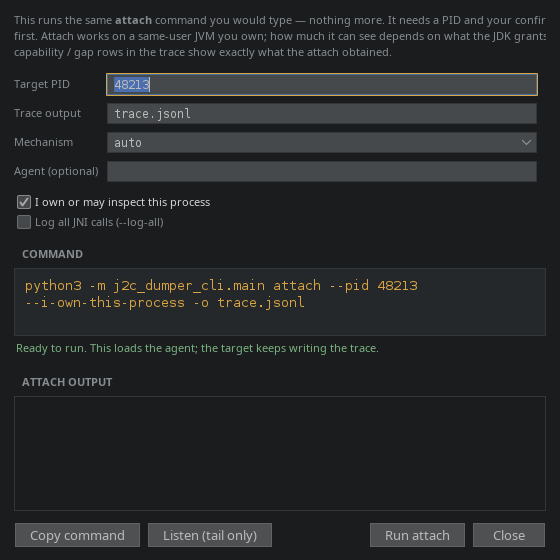
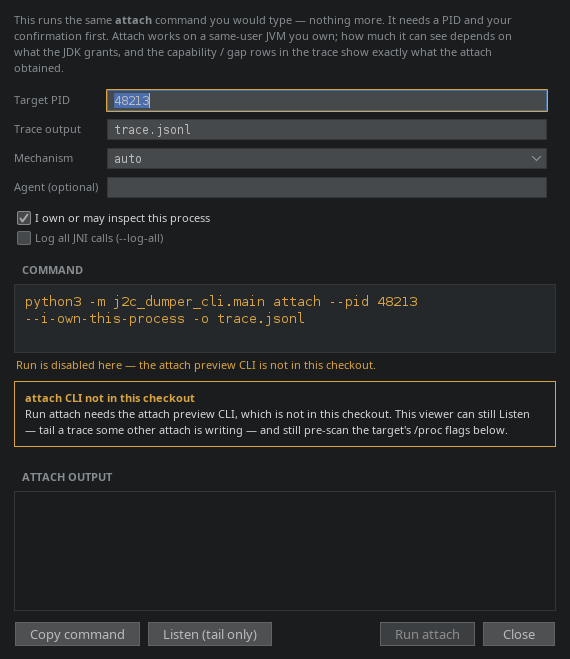
test(desktop-ui): reflow intro, re-export shots at real dialog size
- Reflow the attach-form intro and every banner through one shared wrap
  width kept inside the packed dialog's content column, so words stay
  complete (fixes the confirmation->confir clip in 07/10).
- Render the attach shots at the real packed dialog size (dialogShot),
  matching what ViewerFrame.openAttachDialog shows.
- 07 now shows the honest 'attach CLI not in this checkout' notice with
  Run disabled; 10 shows the refusal banner (notice superseded).
- Add 12-attach-self-warning proving the allowAttachSelf=false warning
  appears in the real UI via the pre-scan wiring.
- Grow the warning row dynamically so a two-line warning is not clipped.
- Update README + review doc for the CLI-availability notice, the warning
  path, and bindingGaps reading from manifest.json.

diff --git a/jvm/desktop-ui/src/test/kotlin/j2c/desktop/ShotExporter.kt b/jvm/desktop-ui/src/test/kotlin/j2c/desktop/ShotExporter.kt
@@ -53,12 +53,19 @@ fun main(args: Array<String>) {
         println("wrote $name.png")
     }
 
-    fun componentShot(name: String, w: Int, h: Int, build: () -> JComponent) {
+    /**
+     * Render a standalone component to a PNG, sizing the window to the panel's
+     * own preferred size — exactly what ViewerFrame.openAttachDialog does with
+     * pack(). This makes the attach-form shots match the real dialog a user
+     * sees, so the intro / banner wrapping in the image is the wrapping in the
+     * app.
+     */
+    fun dialogShot(name: String, build: () -> JComponent) {
         var frame: JFrame? = null
         SwingUtilities.invokeAndWait {
             val f = JFrame(name)
             f.contentPane = build()
-            f.setSize(w, h)
+            f.pack()
             f.isVisible = true
             frame = f
         }
@@ -68,7 +75,6 @@ fun main(args: Array<String>) {
             val content = f.contentPane
             val cw = content.width.coerceAtLeast(1)
             val ch = content.height.coerceAtLeast(1)
-            println("PROBE $name content=${cw}x$ch")
             val img = BufferedImage(cw, ch, BufferedImage.TYPE_INT_RGB)
             val g = img.createGraphics()
             content.printAll(g)
@@ -118,7 +124,7 @@ fun main(args: Array<String>) {
     // preview CLI is absent, so the form says so and keeps Run disabled — it
     // never pretends the displayed command would run. Listen and the pre-scan
     // still work.
-    componentShot("07-attach-form", 560, 620) {
+    dialogShot("07-attach-form") {
         AttachPanel(
             defaultOutput = "trace.jsonl",
             onStartTail = {},
@@ -153,7 +159,7 @@ fun main(args: Array<String>) {
     // -XX:+DisableAttachMechanism, so the form refuses before launch, names the
     // reason code, gives the one-line meaning, and points at the startup path.
     // No stealth, no bypass — reaching this banner means no attach happened.
-    componentShot("10-attach-refused", 560, 620) {
+    dialogShot("10-attach-refused") {
         AttachPanel(
             defaultOutput = "trace.jsonl",
             onStartTail = {},
@@ -177,7 +183,7 @@ fun main(args: Array<String>) {
     // -Djdk.attach.allowAttachSelf=false, which governs self-attach only and
     // does NOT block this same-user attach, so the form warns (amber) and does
     // not refuse. Same scan/classification the live refresh runs.
-    componentShot("12-attach-self-warning", 560, 620) {
+    dialogShot("12-attach-self-warning") {
         AttachPanel(
             defaultOutput = "trace.jsonl",
             onStartTail = {},

diff --git a/jvm/desktop-ui/src/main/kotlin/j2c/desktop/AttachPanel.kt b/jvm/desktop-ui/src/main/kotlin/j2c/desktop/AttachPanel.kt
@@ -345,7 +345,9 @@ class AttachPanel(
         stack.add(left(hintLabel))
         stack.add(bannerRow(noticeBanner))
         stack.add(bannerRow(refusalBanner))
-        stack.add(left(warningLabel))
+        // A growable row (not left(), which freezes the height to one line) so a
+        // two-line warning that appears after the dialog is sized shows in full.
+        stack.add(bannerRow(warningLabel))
         stack.add(left(Ui.sectionLabel("attach output")))
         stack.add(Ui.scroll(logArea).apply { preferredSize = Dimension(480, 120) })
         return stack
@@ -548,9 +550,12 @@ class AttachPanel(
     private companion object {
         /**
          * The wrap width (px) shared by the intro paragraph and every banner so
-         * they line up and, crucially, wrap with complete words inside the
-         * form's fixed content column instead of clipping the last word.
+         * they line up and, crucially, wrap with *complete* words. A Swing HTML
+         * label whose fixed div width sits too close to its allocated width
+         * reflows text wider than it paints and clips the last word; keeping the
+         * wrap comfortably inside the dialog's ~570px content column (packed, as
+         * openAttachDialog does) avoids that.
          */
-        const val WRAP_PX = 452
+        const val WRAP_PX = 400
     }
 }

diff --git a/jvm/desktop-ui/README.md b/jvm/desktop-ui/README.md
@@ -65,8 +65,11 @@ window.
   the container format (PE/ELF/MachO), target arch, the obfuscator profile and
   method-discovery strategy the introspection used (when recorded), the native
   registry / string counts, and any **binding gaps** — native methods the pass
-  could not bind to a call site — as a count plus a short list. Missing fields
-  are simply omitted, so older `binary.json` files still show format and arch.
+  could not bind to a call site — as a count plus a short list. Format, arch,
+  and the analysis facts come from `binary.json`; binding gaps are read from
+  `manifest.json` (where the merge step records them), falling back to
+  `binary.json`. Missing fields are simply omitted, so older reports still show
+  format and arch.
 - **Artifact JSON** — the raw recovered JSON for the selected method.
 - **Trace** — the trace events. A static `trace.jsonl` is loaded when the
   session has one; **Tail this trace** follows it live as it grows. Rows are
@@ -100,6 +103,11 @@ an honest front end to the `attach` CLI (see
   inspect this process*. That box adds the required `--i-own-this-process`
   flag; without it the CLI refuses before touching the target, and so does the
   GUI. Attach is for a same-user JVM you are authorized to inspect.
+- **If this checkout has no `attach` subcommand, Run is disabled and says so.**
+  The form inspects the same CLI it would launch; when the `attach` preview
+  subcommand is absent it shows an honest notice instead of pretending the
+  displayed command works. **Listen** and the `/proc` pre-scan still work, so
+  you can tail a trace and inspect a target's flags regardless.
 - On a successful attach the viewer starts tailing the trace. **Listen (tail
   only)** skips running anything and just follows a trace file — useful when
   you started the attach from a terminal.
@@ -115,10 +123,10 @@ an honest front end to the `attach` CLI (see
   - *Before launch*, on Linux, the form scans the target's
     `/proc/<pid>/cmdline` for `-XX:+DisableAttachMechanism`
     (`attach-disabled`) and `-XX:-EnableDynamicAgentLoading`
-    (`dynamic-agent-disabled`). If either is present, **Run is blocked** and a
-    banner names the reason. (`-Djdk.attach.allowAttachSelf=false` is *not* a
+    (    `dynamic-agent-disabled`). If either is present, **Run is blocked** and a
+    banner names the reason. `-Djdk.attach.allowAttachSelf=false` is *not* a
     refusal — it governs self-attach only — so it does not block a same-user
-    attach.)
+    attach; the form surfaces it as an amber **warning** and proceeds.
   - *After a run*, if the CLI printed `attach failed (reason=<code>): …`, the
     viewer parses that code and shows the same banner. The recognized codes are
     `attach-disabled`, `dynamic-agent-disabled`, `cross-user`, `not-a-jvm`,
@@ -181,7 +189,9 @@ whole app.
   capability / gap / lifecycle). Shared by the scanner and the tailer.
 - `TraceTailer.kt` — follows a trace file as it grows, on a Swing timer.
 - `AttachController.kt` — builds (and, on confirmation, runs) the `attach`
-  CLI command. Command building and validation are Swing-free and tested.
+  CLI command, detects whether this checkout has an `attach` subcommand, and
+  decides the post-run tail / announce outcome. Command building, validation,
+  availability detection, and the outcome rule are Swing-free and tested.
 - `AttachDiagnostics.kt` — Swing-free refusal classification: the
   `/proc/<pid>/cmdline` argv pre-scan and the `attach failed (reason=<code>)`
   output parser. Tested without a live JVM.
@@ -213,7 +223,9 @@ cd jvm
 - `01-empty` … `06-trace` — the artifact-session states (empty, missing
   artifacts, pipeline, method detail, static trace). `04-pipeline` now includes
   the binary analysis strip.
-- `07-attach-form` — the attach / listen form, with the exact CLI shown.
+- `07-attach-form` — the attach / listen form, with the exact CLI shown. On a
+  checkout without the `attach` subcommand (this one) it also shows the honest
+  "attach CLI not in this checkout" notice and keeps Run disabled.
 - `08-live-tail` — a live tail: bind events plus honest capability / gap rows
   (a reduced-capability live attach: bind only).
 - `09-capability-gap` — the empty case shown plainly: no core capabilities
@@ -223,6 +235,9 @@ cd jvm
   reason code, meaning, and startup-path remedy. Run stays disabled.
 - `11-analysis-strip` — the binary analysis strip: PE + arch + profile +
   method discovery, and a binding gap (`checksum` left unbound) called out.
+- `12-attach-self-warning` — the non-fatal warning path: the target sets
+  `-Djdk.attach.allowAttachSelf=false`, which the form flags in amber without
+  refusing (it governs self-attach only).
 
 Regenerate them with:
 

diff --git a/docs/reviews/desktop-live-attach.md b/docs/reviews/desktop-live-attach.md
@@ -107,6 +107,37 @@ single-accent instrument-panel palette holds.
   it is the default-focused button when the window opens. This is ordinary
   focus state, not a highlight. Left as-is.
 
+## Update — must-fix follow-up (independent re-review)
+
+A second independent pass raised five must-fix items; all are addressed on
+`cursor/desktop-viewer-live-attach-c9be`, re-tested and re-screenshotted:
+
+1. **Clipped intro copy.** Screenshots `07`/`10` cut *confirmation* to
+   *confir*. The intro and every banner now wrap through one shared width
+   (`AttachPanel.WRAP_PX`) kept comfortably inside the packed dialog's content
+   column, so words stay complete. The attach-form shots are now taken at the
+   real packed dialog size (`dialogShot`), so the image matches the app. `09`'s
+   gap sentence is unchanged and still complete.
+2. **Attach CLI absent on this branch.** The form detects that this checkout
+   has no `attach` subcommand (it inspects the same `main.py` the run path
+   would launch) and shows an honest amber notice — *attach CLI not in this
+   checkout* — while keeping Run disabled. Listen and the `/proc` pre-scan
+   still work. No PR #9 code was copied.
+3. **Panel outcome path tested.** The tail / announce decision is now a pure
+   function (`AttachController.outcomeFor`) with tests proving a non-zero exit
+   *or* a parsed refusal never tails and never claims attached — not just the
+   `showRefusal` screenshot hook.
+4. **`allowAttachSelf=false` warning wired.** The refresh/pre-scan reads the
+   target argv once and surfaces `warningsForTokens` as an amber warning line
+   (not a refusal). Shown in the real UI in `12-attach-self-warning`.
+5. **bindingGaps source of truth.** The strip reads `bindingGaps` from
+   `manifest.json` (falling back to `binary.json`) while keeping format / arch /
+   analysis from `binary.json`. The sample session moves its gap onto
+   `manifest.json` to match that layout.
+
+`./gradlew :desktop-ui:test` passes (52 tests). No stealth or bypass was added;
+`DisableAttachMechanism` remains a hard refusal.
+
 ## Build / test notes
 
 - The module targets JDK 21 while the rest of `jvm/` targets JDK 17. On a
